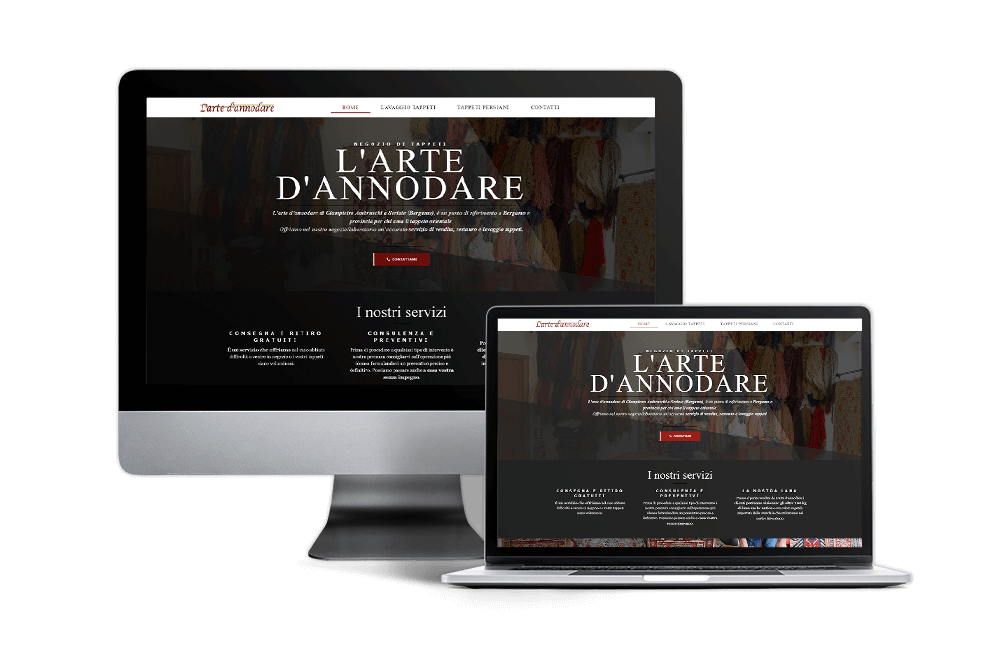
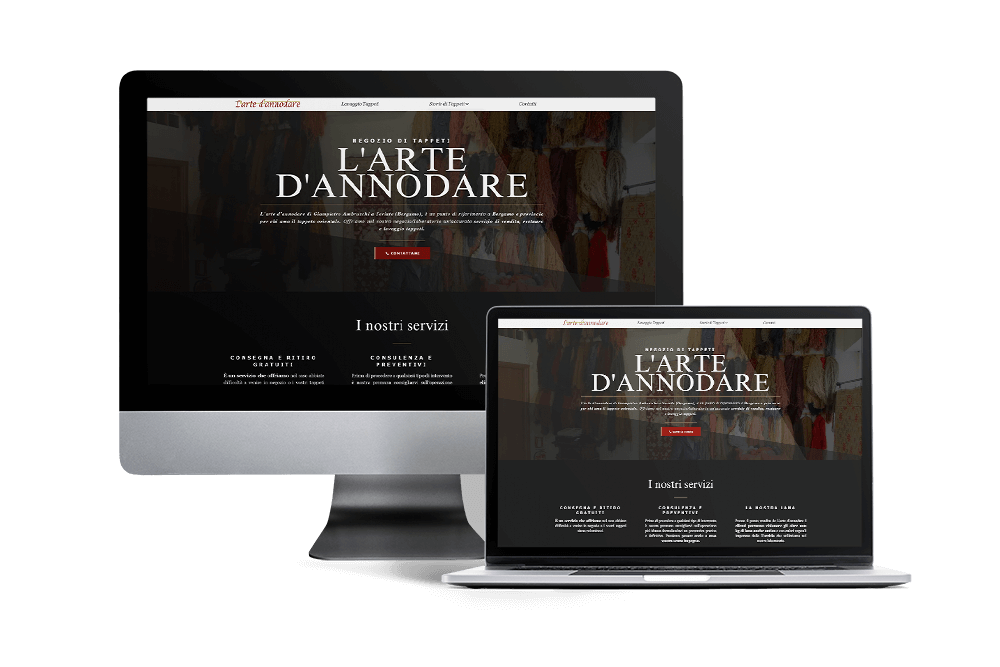
update works

diff --git a/index.html b/index.html
@@ -67,61 +67,27 @@
 
 <!-- Inizio Parte -->
 
- <!-- Prima parte -->
-
-        <div class="works-item">
-            <div class="works-item-tags">Web Developer \ Online \ 2021</div>
-            <h2 id="titleBfl">Business For Lawyers</h2>
-
-           
-
-            <div class="work-info">
-                <div class="work-info-label">Output</div>
-                <div class="work-info-content">
-                    <p>An online company specialized in the field of Business for lawyers, with a deep knowledge of the legal market.
-                        I work as a graphic design and website development, both for internal purposes and for clients. 
-                        Additionally, I created logos and I customized graphics.</p>
-                    </div>
-            </div>
-            <div class="work-info">
-                <div class="work-info-label skllilsLab">Skills</div>
-                <div class="work-info-content skills">
-                    <p>Web Design · WordPress Developer · HTML · CSS · Search Engine Optimization (SEO) · Google Analytics · Adobe Premiere Pro · Adobe Illustrator · Adobe Photoshop · Graphic Design · Advertising · User Experience Design</p>
-                    </div>
-            </div>
-
-            <div class="splin watch">
-               <spline-viewer async url="https://prod.spline.design/JV20Vi5dtkuCsOuv/scene.splinecode"></spline-viewer>
-             </div>
-            
-             
-            <div class="images">
-                <img class="image-right img watch" src="img/Promozione Avvocato.png" alt="">
-                <img class="img watch" src="img/ebook.png" alt="">
-                <img class="image-left img watch" src="img/marketing per avvocati.png" alt="">
-            </div>
-        </div>
 
 <!-- Seconda parte -->
 
     <div class="works-item">
         <a class="anchors" id="work2"></a>
-        <div class="works-item-tags">Web Developer \ Bergamo \ 2020</div>
+        <div class="works-item-tags">Web Developer \ Bergamo \ 2024</div>
             <h2 id="titleLarte">L'arte D'annodare</h2>
 
             <div class="work-info">
                 <div class="work-info-label">Output</div>
                 <div class="work-info-content">
-                    <p>A reference point for Oriental rugs in Bergamo.
-                        I developed the website in WordPress, took care of both the front-end and back-end, managed analytics, SEO optimization, 
-                        and hosting management. Additionally, I handled the corporate identity (excluding the logo, as it is historical).</p>
+                    <p>A reference point for Oriental rugs in Bergamo. 
+                    I developed the website using Next.js, taking care of both the front-end and back-end, managing analytics, SEO optimization, and hosting management. 
+                    Additionally, I handled the corporate identity (excluding the logo, as it is historical).</p>
                     </div>
             </div>
 
             <div class="work-info">
                 <div class="work-info-label skllilsLab">Skills</div>
                 <div class="work-info-content skills">
-                    <p>Web Design · WordPress Developer · HTML · CSS · JavaScript · Search Engine Optimization (SEO) · Google Analytics · Adobe Illustrator · Adobe InDesign · Graphic Design</p>
+                    <p>Web Design · Next.js Developer · HTML · CSS · JavaScript · Search Engine Optimization (SEO) · Analytics · Adobe Illustrator · Adobe InDesign · Graphic Design · Adobe Photoshop</p>
                     </div>
             </div>
 
@@ -139,7 +105,76 @@
                     </div>
      </div>          
 
-<!-- Terza parte -->
+
+      <!-- Seconda parte -->
+
+      <div class="works-item">
+        <div class="works-item-tags">Web Developer \ Bergamo \ 2023</div>
+        <h2 id="titleBfl">Bernardo Peruta</h2>
+
+       
+
+        <div class="work-info">
+            <div class="work-info-label">Output</div>
+            <div class="work-info-content">
+                <p>Bernardo Peruta is an Italian artist. In 2004, he moved to Nice, France, where he opened his own studio. For years, he has been participating in numerous solo and group exhibitions in Italy, France, Belgium, Germany, and beyond. His works are a blend of the real and the surreal.
+                    I created the official website from scratch, considering both the graphic design and development aspects, including optimization and SEO.</p>
+                </div>
+        </div>
+        <div class="work-info">
+            <div class="work-info-label skllilsLab">Skills</div>
+            <div class="work-info-content skills">
+                <p>Web Design · JavaScript · HTML · CSS · Search Engine Optimization (SEO) · Google Analytics · Adobe Photoshop · Graphic Design · User Experience Design</p>
+                </div>
+        </div>
+
+        <div class="splin watch">
+           <spline-viewer async url="https://prod.spline.design/JV20Vi5dtkuCsOuv/scene.splinecode"></spline-viewer>
+         </div>
+        
+         
+        <div class="images">
+            <img class="image-right img watch" src="img/Bernado Peruta.png" alt="">
+            <img class="img watch" src="img/Bernado Peruta works.png" alt="">
+            <img class="image-left img watch" src="img/Bernado Peruta contact.png" alt="">
+        </div>
+    </div>
+
+
+
+      <!-- Terza parte -->
+
+      <div class="works-item">
+        <div class="works-item-tags">Web Developer \ Online \ 2021</div>
+        <h2 id="titleBfl">Business For Lawyers</h2>
+
+       
+
+        <div class="work-info">
+            <div class="work-info-label">Output</div>
+            <div class="work-info-content">
+                <p>An online company specialized in the field of Business for lawyers, with a deep knowledge of the legal market.
+                    I work as a graphic design and website development, both for internal purposes and for clients. 
+                    Additionally, I created logos and I customized graphics.</p>
+                </div>
+        </div>
+        <div class="work-info">
+            <div class="work-info-label skllilsLab">Skills</div>
+            <div class="work-info-content skills">
+                <p>Web Design · WordPress Developer · HTML · CSS · Search Engine Optimization (SEO) · Google Analytics · Adobe Premiere Pro · Adobe Illustrator · Adobe Photoshop · Graphic Design · Advertising · User Experience Design</p>
+                </div>
+        </div>
+         
+        <div class="images">
+            <img class="image-left img watch" src="img/Promozione Avvocato.png" alt="">
+            <img class="img watch" src="img/ebook.png" alt="">
+            <img class="image-right img watch" src="img/marketing per avvocati.png" alt="">
+        </div>
+    </div>
+
+    
+
+<!-- Quarta parte -->
 
     <div class="works-item">  
         <a class="anchors" id="work3"></a>
@@ -165,6 +200,7 @@
             </div>
 
                     <div class="images">
+                        <img class="image-right img watch" src="img/tavole da palcoscenico.png" alt="">
                         <img class="image-left img watch" src="img/podcast.png" alt="">
                         <img class="image-right img watch" src="img/marinelli.png" alt="">
                         <img class="image-left img watch" src="img/prontolicenziamento.png" alt="">
